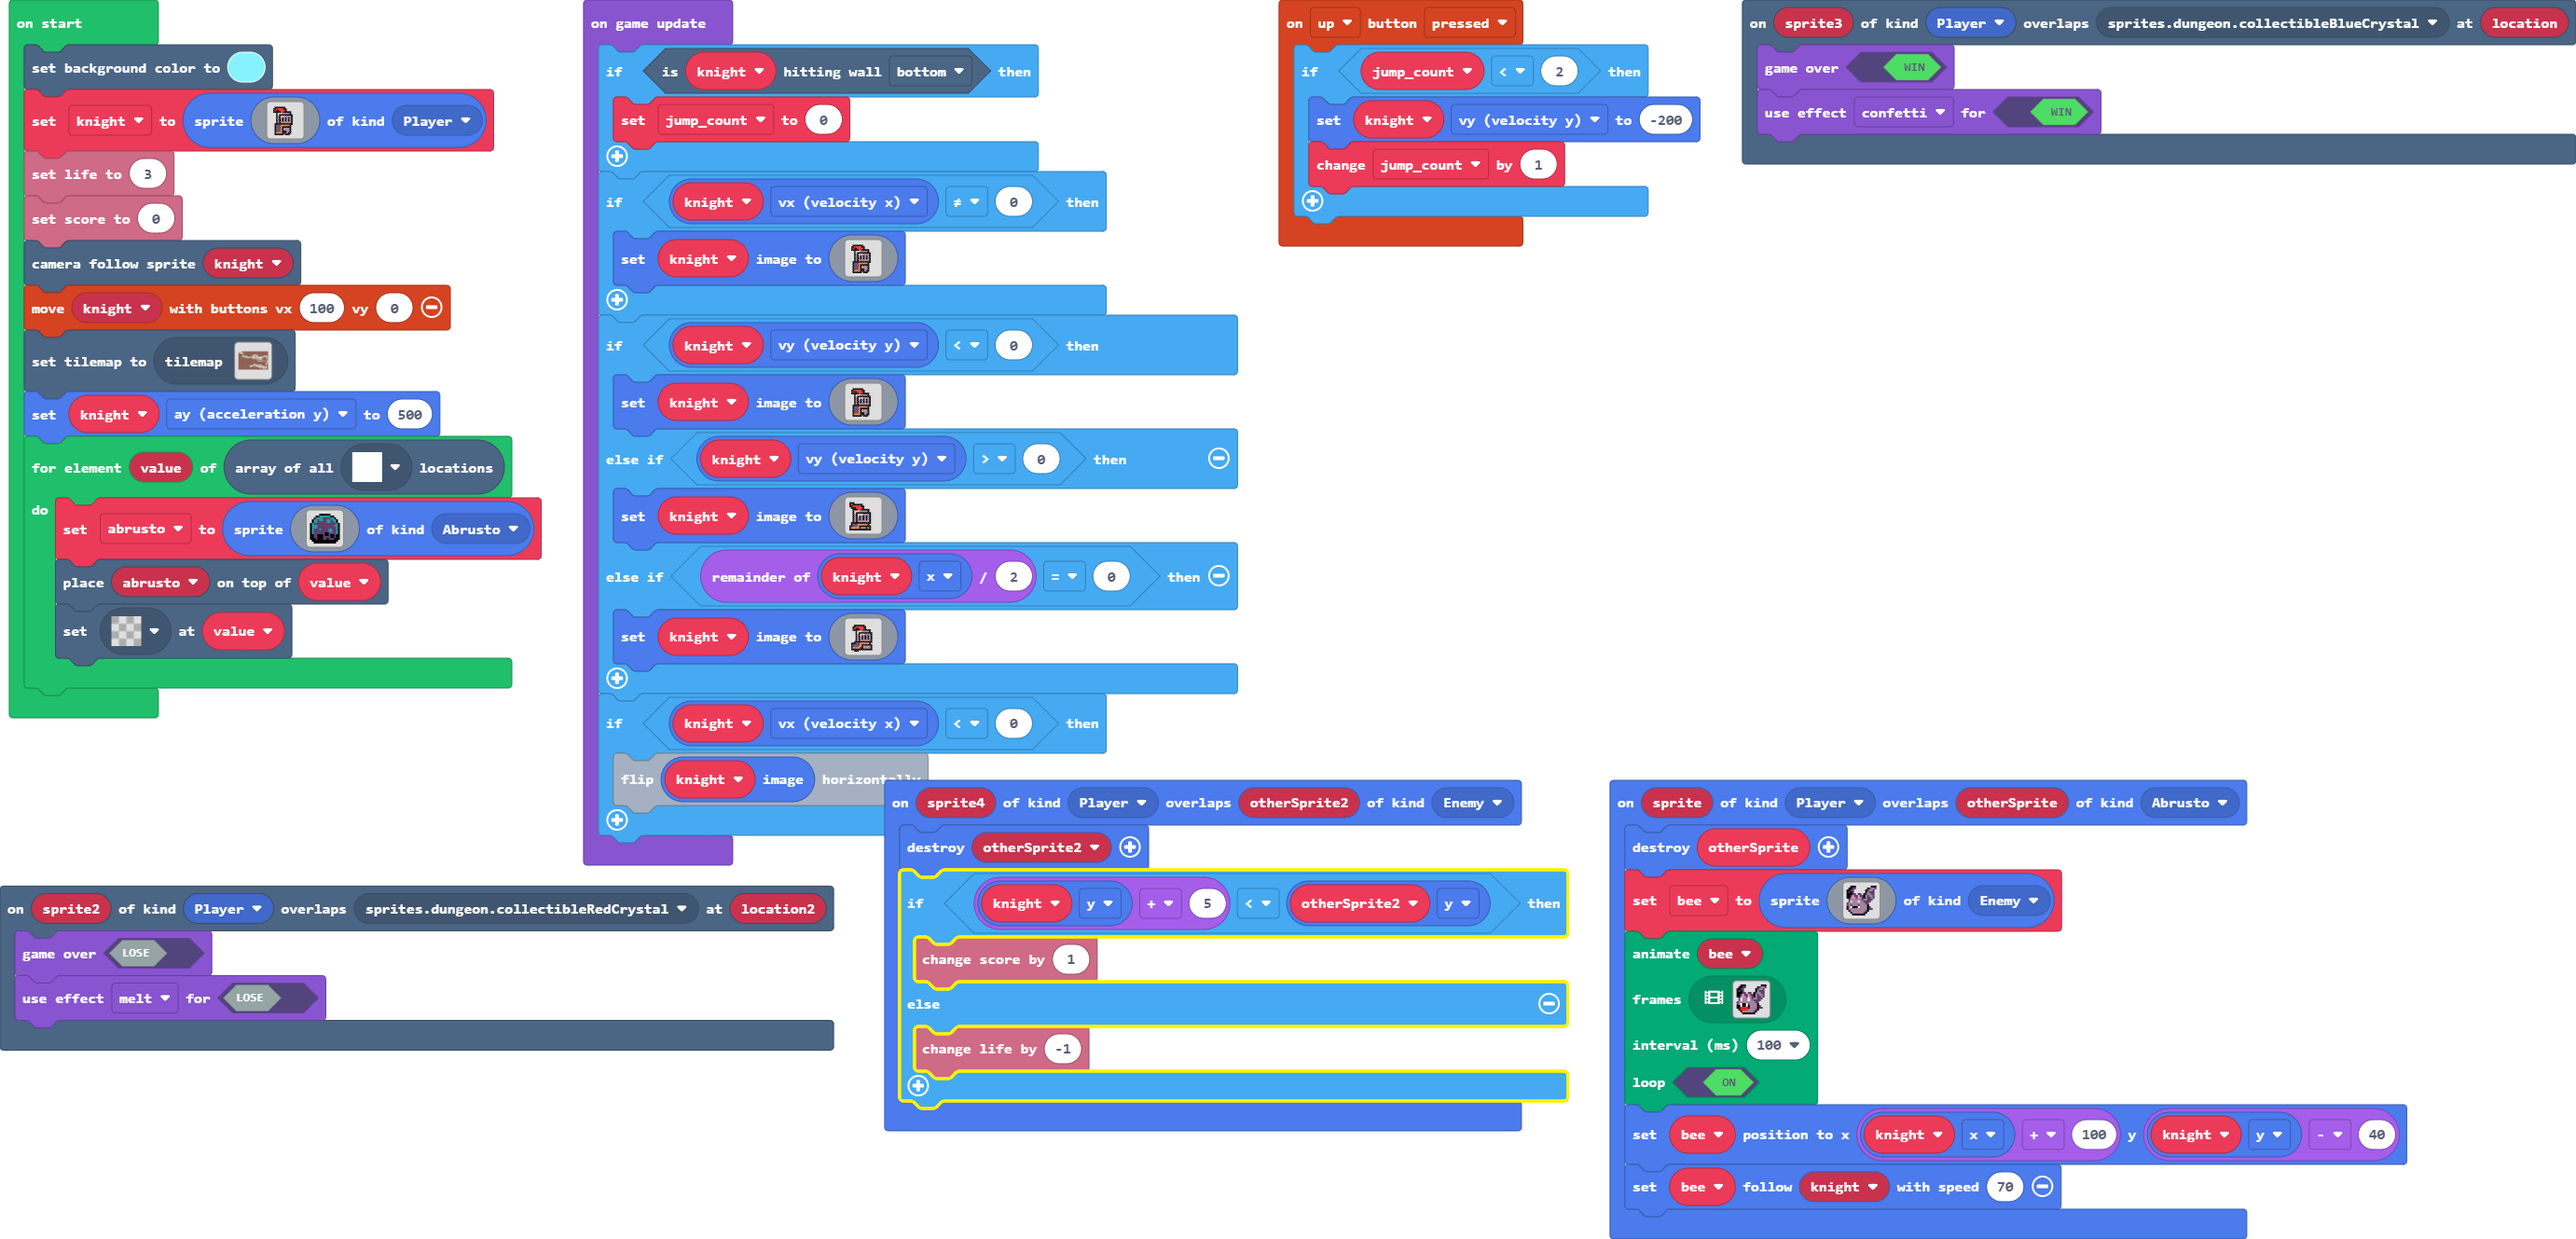
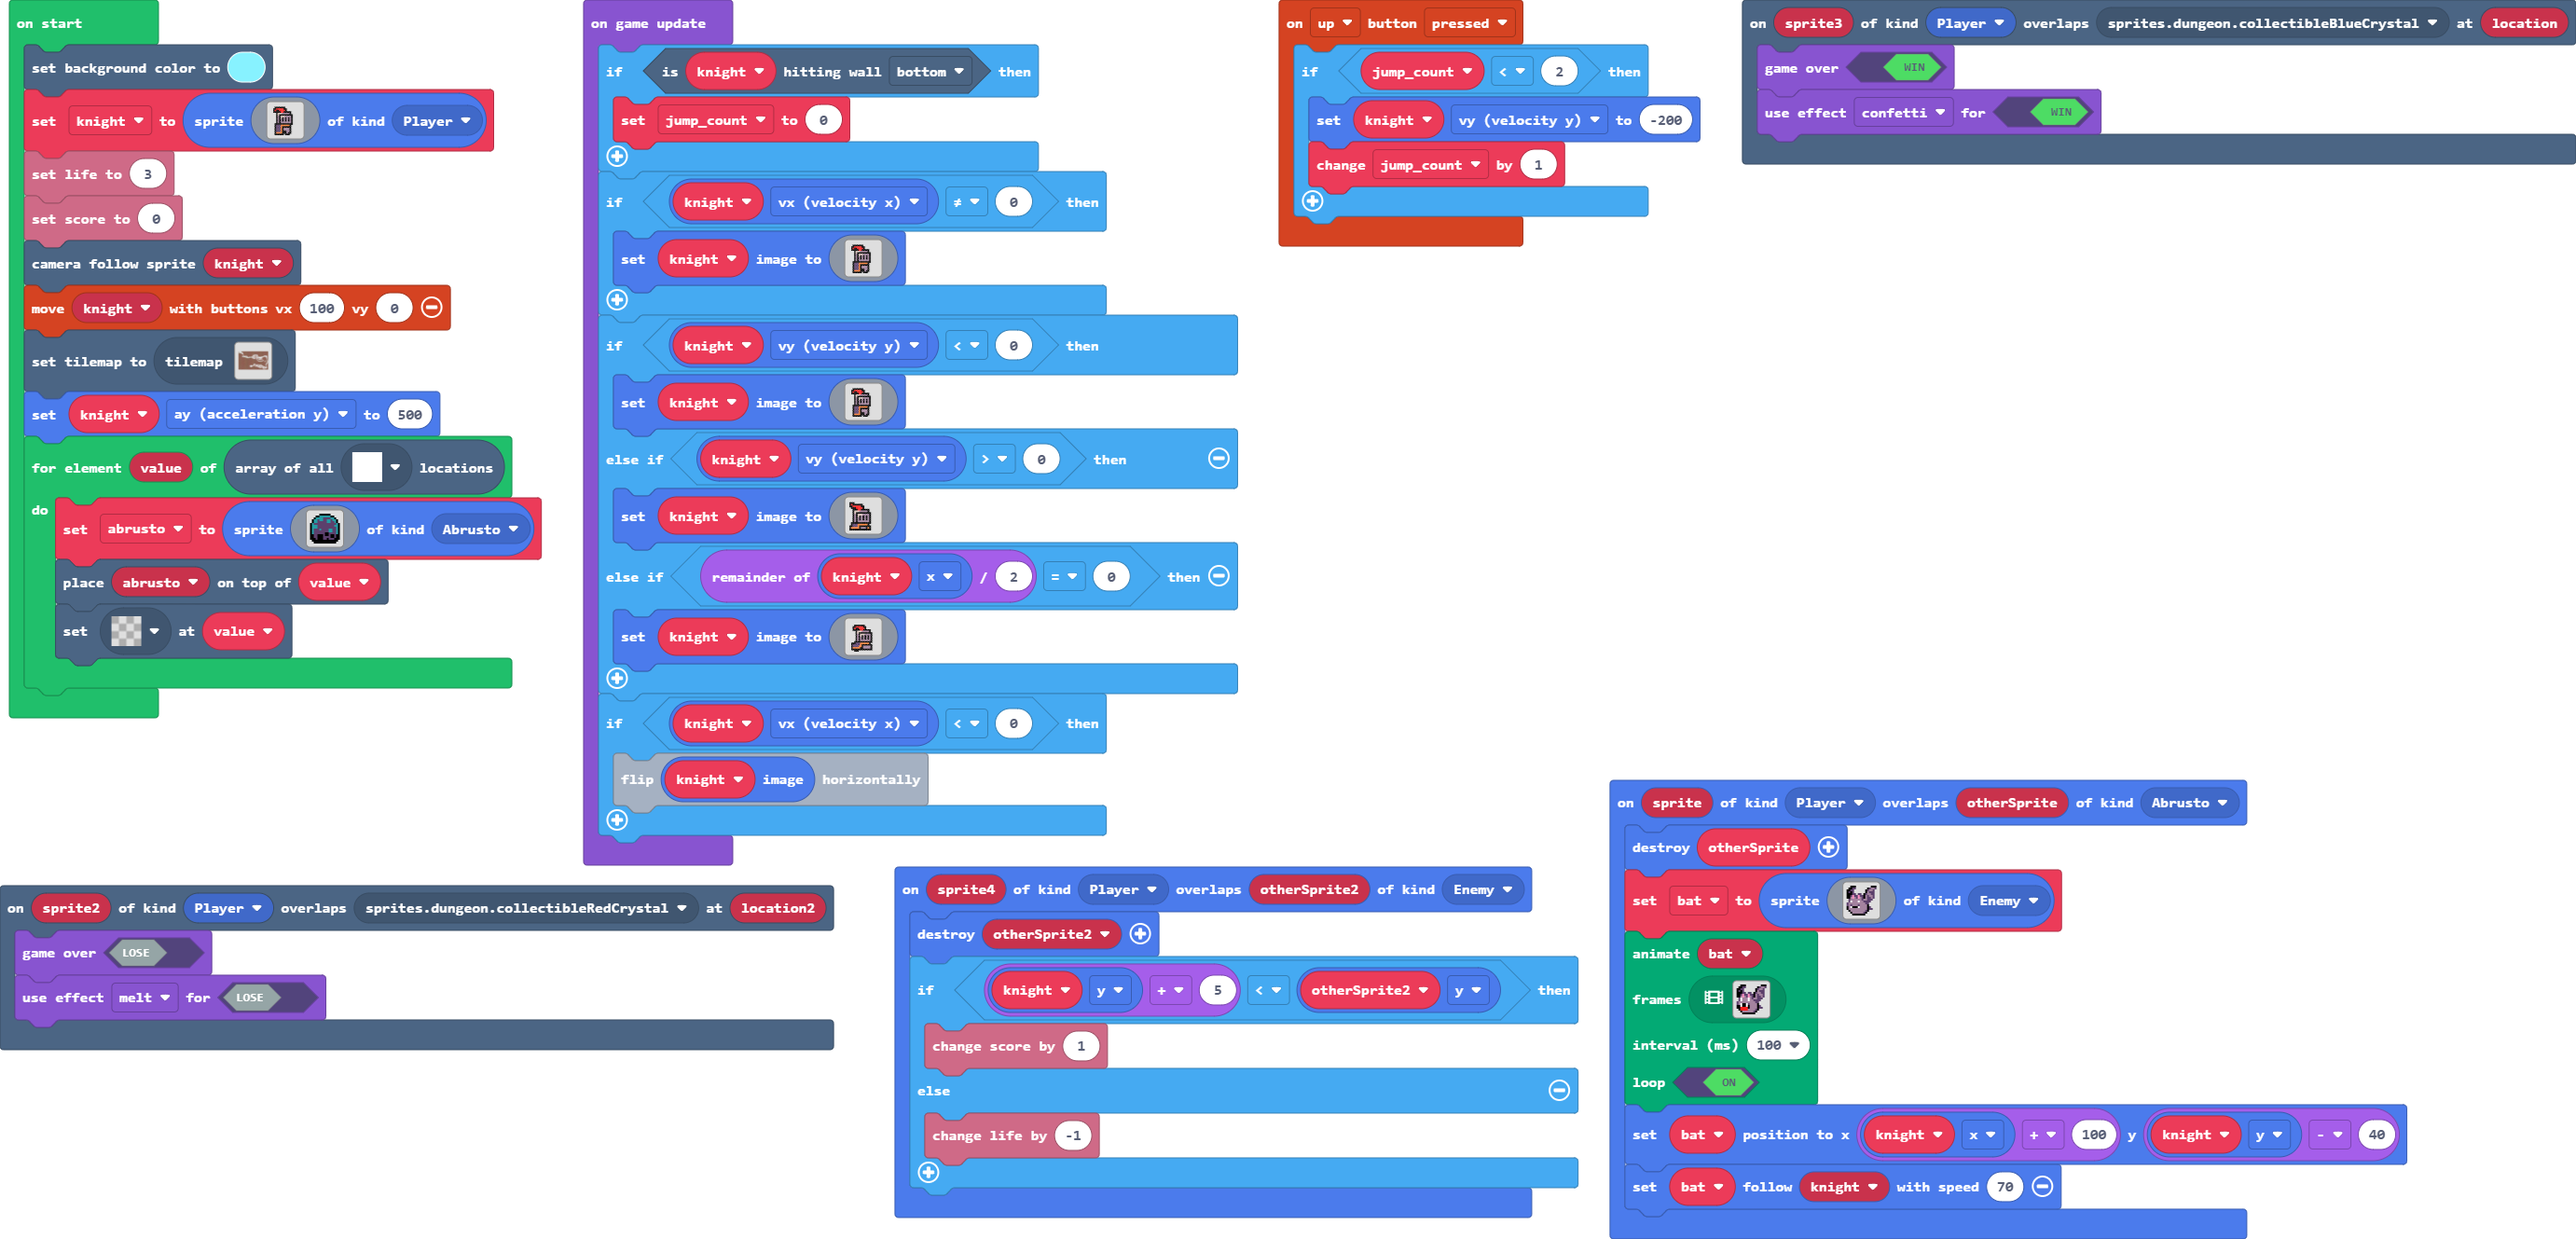
bat name change

diff --git a/main.ts b/main.ts
@@ -27,7 +27,7 @@ sprites.onOverlap(SpriteKind.Player, SpriteKind.Enemy, function (sprite4, otherS
 })
 sprites.onOverlap(SpriteKind.Player, SpriteKind.Abrusto, function (sprite, otherSprite) {
     sprites.destroy(otherSprite)
-    bee = sprites.create(img`
+    bat = sprites.create(img`
         . . f f f . . . . . . . . f f f 
         . f f c c . . . . . . f c b b c 
         f f c c . . . . . . f c b b c . 
@@ -46,15 +46,15 @@ sprites.onOverlap(SpriteKind.Player, SpriteKind.Abrusto, function (sprite, other
         . . . f f f f f f f . . . . . . 
         `, SpriteKind.Enemy)
     animation.runImageAnimation(
-    bee,
+    bat,
     assets.animation`myAnim`,
     100,
     true
     )
-    bee.setPosition(knight.x + 100, knight.y - 40)
-    bee.follow(knight, 70)
+    bat.setPosition(knight.x + 100, knight.y - 40)
+    bat.follow(knight, 70)
 })
-let bee: Sprite = null
+let bat: Sprite = null
 let jump_count = 0
 let abrusto: Sprite = null
 let knight: Sprite = null
